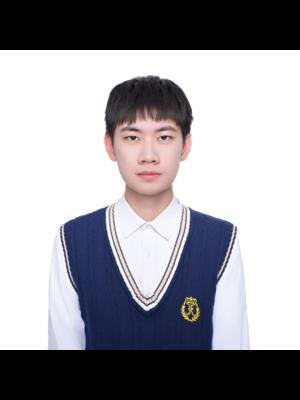
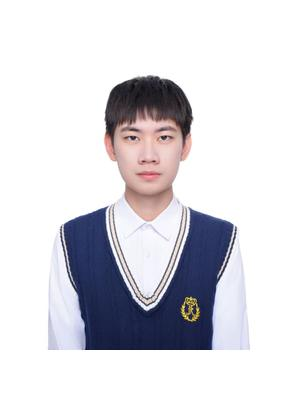
update the resizing photo code

Changed region(s): [[0.0, 0.87, 1.0, 1.0], [0.0, 0.0, 1.0, 0.15], [0.45, 0.72, 0.48, 0.75]]

diff --git a/common/tools/resize_photo.py b/common/tools/resize_photo.py
@@ -1,48 +1,60 @@
 from PIL import Image
 
-def resize_and_crop(image_path, output_path, target_width, target_height, priority='height'):
+def resize_crop_or_pad(image_path,
+                       output_path,
+                       target_width,
+                       target_height,
+                       priority='height'):
+    """
+    缩放 + 裁剪/填充（填充颜色取自左上角像素）
+    """
     img = Image.open(image_path)
-    original_width, original_height = img.size
+    orig_w, orig_h = img.size
 
-    if priority == 'height':
-        # 优先满足高度
-        new_height = target_height
-        new_width = int(target_height * original_width / original_height)
-        img_resized = img.resize((new_width, new_height))
-
-        # 居中裁剪宽度
-        left = (new_width - target_width) // 2
-        top = 0
-        right = left + target_width
-        bottom = new_height
-
-    elif priority == 'width':
-        # 优先满足宽度
-        new_width = target_width
-        new_height = int(target_width * original_height / original_width)
-        img_resized = img.resize((new_width, new_height))
-
-        # 居中裁剪高度
-        left = 0
-        top = (new_height - target_height) // 2
-        right = new_width
-        bottom = top + target_height
-
+    # ① 计算缩放后的尺寸
+    if priority == 'height':              # 先满足高度
+        new_h = target_height
+        new_w = int(orig_w * target_height / orig_h)
+    elif priority == 'width':             # 先满足宽度
+        new_w = target_width
+        new_h = int(orig_h * target_width / orig_w)
     else:
         raise ValueError("priority must be either 'height' or 'width'")
 
-    img_cropped = img_resized.crop((left, top, right, bottom))
-    img_cropped.save(output_path)
+    img_resized = img.resize((new_w, new_h), Image.LANCZOS)
+
+    # ② 背景颜色：左上角像素
+    bg_color = img_resized.getpixel((0, 0))
+
+    # ③ 根据缩放结果裁剪或填充
+    if new_w >= target_width and new_h >= target_height:
+        # ——— 两边都够大：居中裁剪 ———
+        left   = (new_w - target_width)  // 2
+        top    = (new_h - target_height) // 2
+        right  = left + target_width
+        bottom = top  + target_height
+        img_out = img_resized.crop((left, top, right, bottom))
+    else:
+        # ——— 有一边不足：新建画布 + 居中填充 ———
+        img_out = Image.new(img.mode, (target_width, target_height), bg_color)
+        offset_x = (target_width  - new_w) // 2
+        offset_y = (target_height - new_h) // 2
+        img_out.paste(img_resized, (offset_x, offset_y))
+
+    img_out.save(output_path)
 
 
-image_path = 'common/img/lzq.jpg' 
+# ========= 使用示例 =========
+image_path  = 'common/img/yy.jpg'
 output_path = image_path.replace('.jpg', '-resized.jpg')
-# output_path = image_path.replace('.png', '-resized.png')
-# pattern for people images
-target_width = 300  
-target_height = 400
-# patern for group images
-# target_width = 400  
-# target_height = 300 
+resize_crop_or_pad(image_path,
+                   output_path,
+                   target_width=300,
+                   target_height=400,
+                   priority='width')
 
-resize_and_crop(image_path, output_path, target_width, target_height, priority='width')
+# resize_crop_or_pad(image_path,
+#                    output_path,
+#                    target_width=400,
+#                    target_height=300,
+#                    priority='width')
